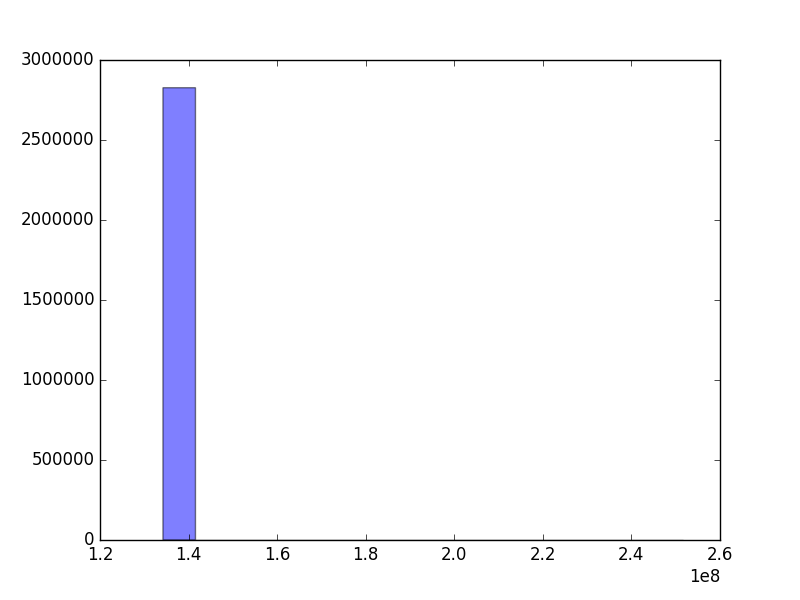
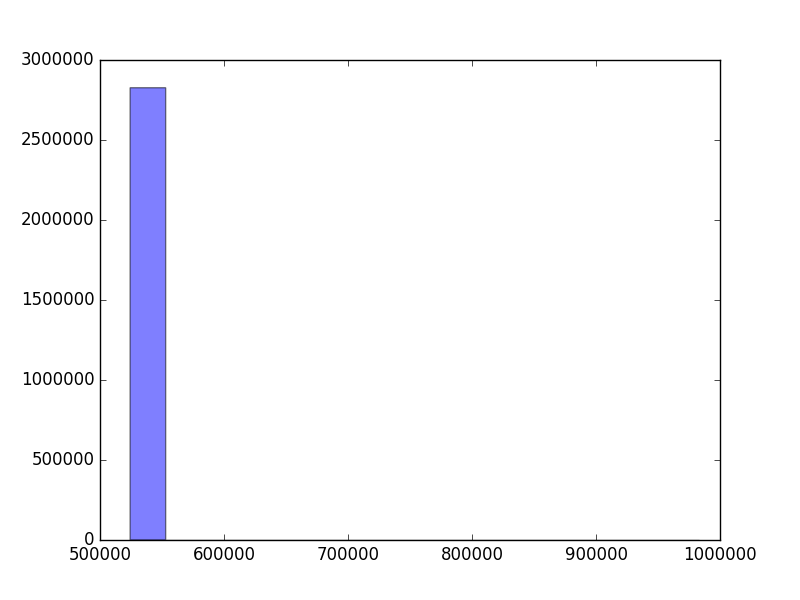
sec

diff --git a/release/alignedTypesfol/plot2.py b/release/alignedTypesfol/plot2.py
@@ -11,9 +11,12 @@ filename = 'alignedTypes.data'
 with open(filename, 'rb') as f:
 	 for line in f: 
 #		 print int(line, 16)/16
-		 x.append(int(line,16)/16)  
+		 x.append(int(line,16)/4096)  
+
 
 print x[1]
+print max(x)
+print min(x)
 num_bins = 16
 n, bins, patches = plt.hist(x, num_bins, facecolor='blue', alpha=0.5)
 plt.savefig("/home/paperspace/gpgpu-sim_simulations/benchmarks/src/4.2/C/bin/linux/release/alignedTypesfol/a.png")
